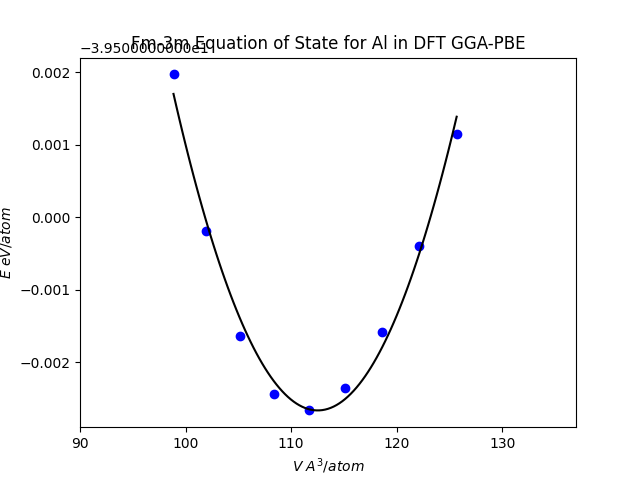
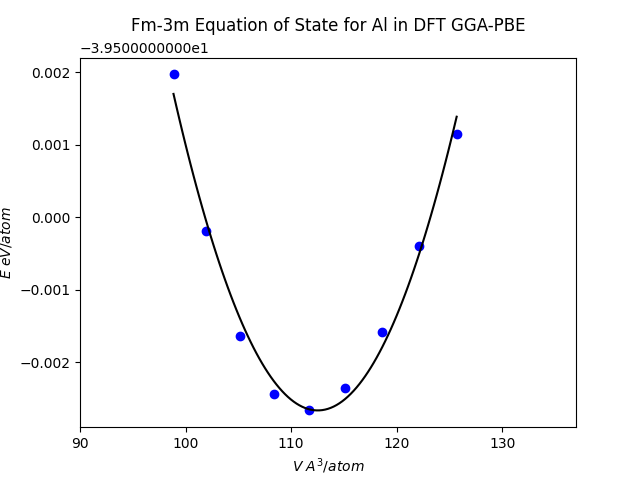
saving..

Changed region(s): [[0.1875, 0.0312, 0.8125, 0.125]]

diff --git a/final_exam/Kveton_PHYS241FinalScript.py b/final_exam/Kveton_PHYS241FinalScript.py
@@ -57,21 +57,21 @@ values_sorted, vectors_sorted = lowest_eigenvectors(matrix, 3)
 from fit_curve_array import fit_curve_array
 fit_curve = fit_curve_array(quadratic_coefficients, min_x, max_x, number_of_points=100)
 #print(fit_curve)
-print('does this go through?')
+
 
 
 from plot_data_with_fit import plot_data_with_fit
-scatter_plot, curve_plot = plot_data_with_fit(array, fit_curve, data_format="bo", fit_format="k")
+def annotate_graph():
+  #ax.annotate("symbol", xy=(130, 0.001))
+  #ax.annotate("structure", xy=(115, 0.001))
+  #ax.annotate("bulk_modulus", xy=(115, 0.0015))
+  plt.text(130, 0.001, "symbol")
+  plt.text(115, 0.001, "structure")
+  plt.text(115, 0.0015, "bulk_modulus")
 
-plt.text(130, 0.001, "Al")
-plt.text(115, 0.001, "Fm3m")
-plt.text(115, 0.0015, "bulk_modulus")
+
+print('does this go through?')
+
+plot_graph = annotate_graph(plot_data_with_fit(array, fit_curve, data_format="bo", fit_format="k")) #scatter_plot, curve_plot
 
 #plt.savefig("plot.png")
-
-t = ax.text(130, 0.001, "Al")
-def annotate_graph(symbol, structure, bulk_modulus):
-  ax.annotate("symbol", xy=(130, 0.001))
-
-
-

diff --git a/final_exam/plot_data_with_fit.py b/final_exam/plot_data_with_fit.py
@@ -8,8 +8,12 @@ def plot_data_with_fit(data, fit_curve, data_format="", fit_format=""):
   
   scatter_plot = plt.plot(data[0, :], data[1, :], data_format)
   curve_plot = plt.plot(fit_curve[0, :], fit_curve[1, :], fit_format)
-  plt.title(('Fm-3m Equation of State for Al in DFT GGA-PBE'))
-  
+  plt.title((r'Fm-3m Equation of State for Al in DFT GGA-PBE'), y=1.05)
+
+  plt.text(130, 0.001, r'symbol')
+  plt.text(115, 0.001, r'structure')
+  plt.text(115, 0.0015, r'bulk_modulus')
+
   plt.xlabel(r'$V$ $A^3/atom$')
   plt.ylabel(r'$E$ $eV/atom$')
   plt.xlim([90, 137])
@@ -18,6 +22,8 @@ def plot_data_with_fit(data, fit_curve, data_format="", fit_format=""):
   #plt.savefig("plot.png")
 
   return scatter_plot, curve_plot
+
+
 
 
   
